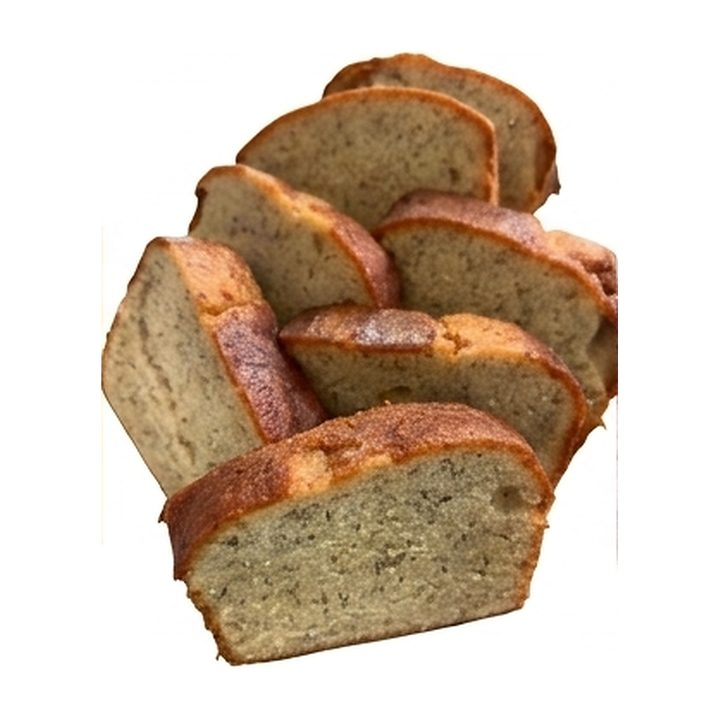
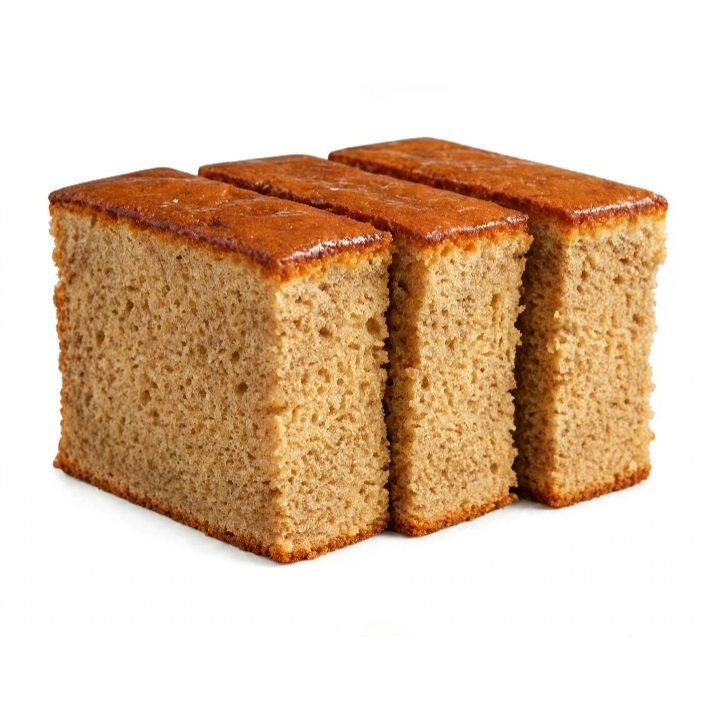
Replace Coffee Cake photo
Claude-Session: https://claude.ai/code/session_0168rdHaFFg2W2P8uKSAf8HF

diff --git a/haju-bliss/index.html b/haju-bliss/index.html
@@ -595,7 +595,7 @@ footer .logo small { color: inherit; opacity: .6; }
     { id: 5,  name: "Chocolate Cake",            cat: "Cakes",    price: 3300, unit: "1 kg"    , best: 5,  choc: true,  img: "images/chocolate-cake.jpg",           desc: "A moist, deep chocolate sponge for birthdays, tea time and everything in between." },
     { id: 6,  name: "Butter Cake with Cashews",  cat: "Cakes",    price: 2800, unit: "1 kg"    , best: 6,  choc: false, img: "images/butter-cake-cashew.jpg",       desc: "Our soft butter cake topped with roasted cashew nuts." },
     { id: 7,  name: "Butter Cake",               cat: "Cakes",    price: 2200, unit: "1 kg",     best: 7,  choc: false, img: "images/butter-cake.jpg",              desc: "Golden, buttery and light. The Sri Lankan tea-time classic." },
-    { id: 8,  name: "Coffee Cake",               cat: "Cakes",    price: 2800, unit: "1 kg"    , best: 8,  choc: false, img: "images/coffee-cake.jpg",              desc: "A tender cake flavoured with real coffee. Lovely with a cup of tea." },
+    { id: 8,  name: "Coffee Cake",               cat: "Cakes",    price: 2800, unit: "1 kg"    , best: 8,  choc: false, img: "images/coffee-cake.jpg?v=2",              desc: "A tender cake flavoured with real coffee. Lovely with a cup of tea." },
     { id: 9,  name: "Rava Laddu",                cat: "Sweets",   price: 50,   unit: "each",     best: 9,  choc: false, img: "images/rava-laddu.jpg",               desc: "Semolina and coconut laddu with cashews and raisins, rolled in fresh coconut." },
     { id: 10, name: "Yanakatha",                 cat: "Sweets",   price: 50,   unit: "each",     best: 10, choc: false, img: "images/yanakatha.jpg",                desc: "A traditional sweet, freshly made and sugar-dusted." }
   ];
